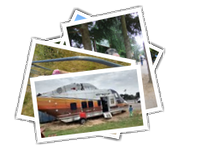
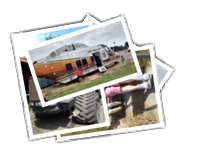
Add picture of Gromit

diff --git a/2018-07-01 14.22.09.html b/2018-07-01 14.22.09.html
@@ -2,7 +2,7 @@
 <html xmlns="http://www.w3.org/1999/xhtml" xml:lang="en" lang="en">
 <head>
     <meta charset="utf-8" />
-    <title>P1010881</title>
+    <title>2018 07 01 14.22.09</title>
     <meta name="Generator" content="lazygal 0.9.1" />
     <link type="text/css" rel="alternate stylesheet" media="screen,projection" title="basic" href="./shared/basic.css" /><link type="text/css" rel="alternate stylesheet" media="screen,projection" title="simple theme dark" href="./shared/simple_theme_dark.css" /><link type="text/css" rel="stylesheet" media="screen,projection" title="default" href="./shared/default.css" /><link type="text/css" rel="alternate stylesheet" media="screen,projection" title="images data" href="./shared/images_data.css" />
     <meta http-equiv="X-UA-Compatible" content="IE=edge,chrome=1" />
@@ -19,28 +19,28 @@
          <!-- #main -->
         <div id="image_container">
     <div class="image_position">
-    <div class="image_comment">Meeting up with family at Blaise Castle, Bristol</div>
-                <a href="P1010885.html" title="next">
-                    <img class="image_file" src="P1010881_medium.JPG" width="1024" height="768" alt="Image P1010881.JPG" />
+    <div class="image_comment">The first Gromit we found</div>
+                <a href="P1010881.html" title="next">
+                    <img class="image_file" src="2018-07-01%2014.22.09_medium.jpg" width="576" height="768" alt="Image 2018-07-01 14.22.09.jpg" />
                 </a>
     </div>
     <div id="media_options" class="wrapper clearfix">
         <div id="image_caption">
             <div class="image_date">
-                Taken on 01/07/2018 at 14:26
+                Taken on 01/07/2018 at 14:22
             </div>
         </div>
         <div class="prevnext" id="prev_link">
             <div class="media_thumb media_image">
-    <a href="2018-07-01%2014.22.09.html"><img class="thumb_image media_image" src="2018-07-01%2014.22.09_thumb.jpg" width="84" height="113" title="2018-07-01 14.22.09 thumb" /></a>
+    <a href="DSCF6640.html"><img class="thumb_image media_image" src="DSCF6640_thumb.JPG" width="84" height="113" title="DSCF6640 thumb" /></a>
 </div>
-            <a class="prevnext_text" href="2018-07-01%2014.22.09.html" title="previous"></a>
+            <a class="prevnext_text" href="DSCF6640.html" title="previous"></a>
         </div>
         <div class="prevnext" id="next_link">
             <div class="media_thumb media_image">
-    <a href="P1010885.html"><img class="thumb_image media_image" src="P1010885_thumb.JPG" width="150" height="112" title="P1010885 thumb" /></a>
+    <a href="P1010881.html"><img class="thumb_image media_image" src="P1010881_thumb.JPG" width="150" height="112" title="P1010881 thumb" /></a>
 </div>
-            <a class="prevnext_text" href="P1010885.html" title="next"></a>
+            <a class="prevnext_text" href="P1010881.html" title="next"></a>
         </div>
     </div> <!-- #media_options -->
 </div><!-- #image_container -->

diff --git a/DSCF6640.html b/DSCF6640.html
@@ -20,7 +20,7 @@
         <div id="image_container">
     <div class="image_position">
     <div class="image_comment">Ben with Grandpa and a giant meerkat at Colchester Zoo</div>
-                <a href="P1010881.html" title="next">
+                <a href="2018-07-01%2014.22.09.html" title="next">
                     <img class="image_file" src="DSCF6640_medium.JPG" width="576" height="768" alt="Image DSCF6640.JPG" />
                 </a>
     </div>
@@ -38,9 +38,9 @@
         </div>
         <div class="prevnext" id="next_link">
             <div class="media_thumb media_image">
-    <a href="P1010881.html"><img class="thumb_image media_image" src="P1010881_thumb.JPG" width="150" height="112" title="P1010881 thumb" /></a>
+    <a href="2018-07-01%2014.22.09.html"><img class="thumb_image media_image" src="2018-07-01%2014.22.09_thumb.jpg" width="84" height="113" title="2018-07-01 14.22.09 thumb" /></a>
 </div>
-            <a class="prevnext_text" href="P1010881.html" title="next"></a>
+            <a class="prevnext_text" href="2018-07-01%2014.22.09.html" title="next"></a>
         </div>
     </div> <!-- #media_options -->
 </div><!-- #image_container -->

diff --git a/index.html b/index.html
@@ -38,6 +38,8 @@
 </div><div class="media_thumb media_image">
     <a href="DSCF6640.html"><img class="thumb_image media_image" src="DSCF6640_thumb.JPG" width="84" height="113" title="DSCF6640 thumb" /></a>
 </div><div class="media_thumb media_image">
+    <a href="2018-07-01%2014.22.09.html"><img class="thumb_image media_image" src="2018-07-01%2014.22.09_thumb.jpg" width="84" height="113" title="2018-07-01 14.22.09 thumb" /></a>
+</div><div class="media_thumb media_image">
     <a href="P1010881.html"><img class="thumb_image media_image" src="P1010881_thumb.JPG" width="150" height="112" title="P1010881 thumb" /></a>
 </div><div class="media_thumb media_image">
     <a href="P1010885.html"><img class="thumb_image media_image" src="P1010885_thumb.JPG" width="150" height="112" title="P1010885 thumb" /></a>
